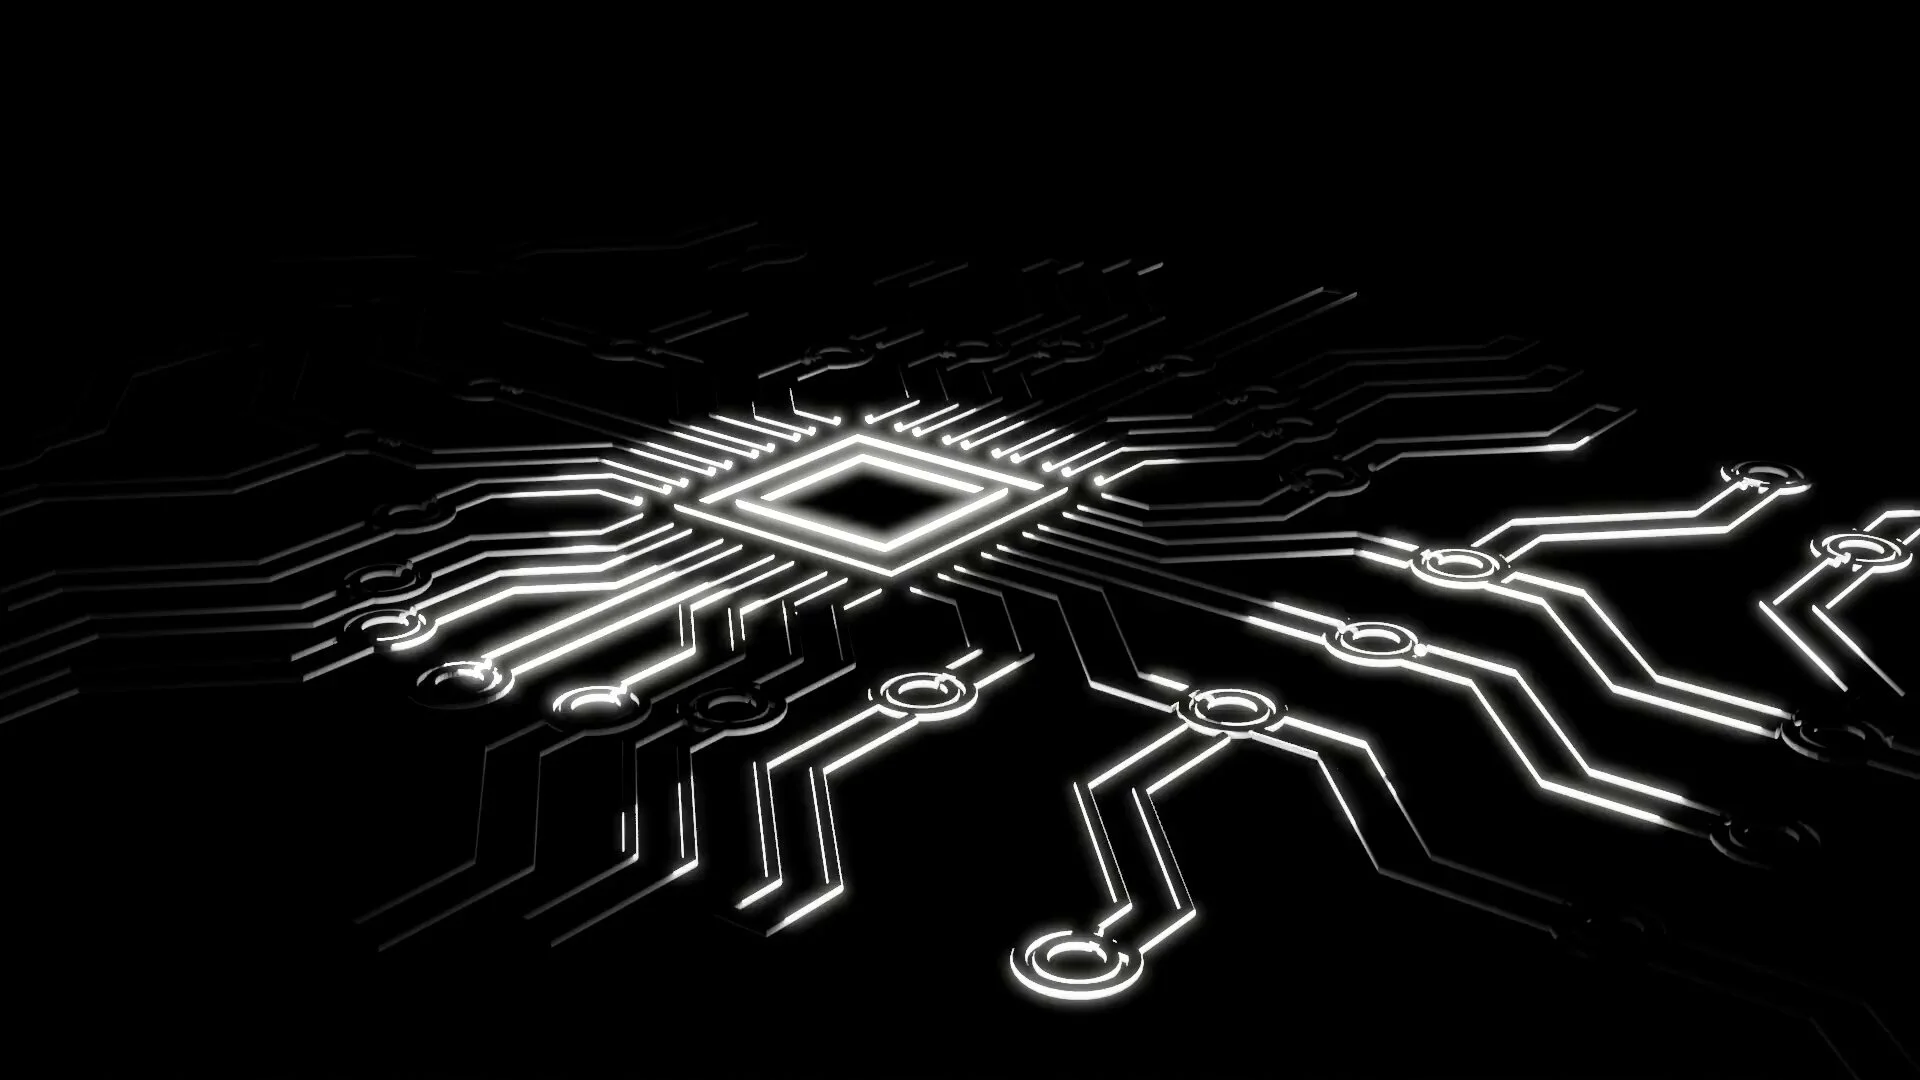
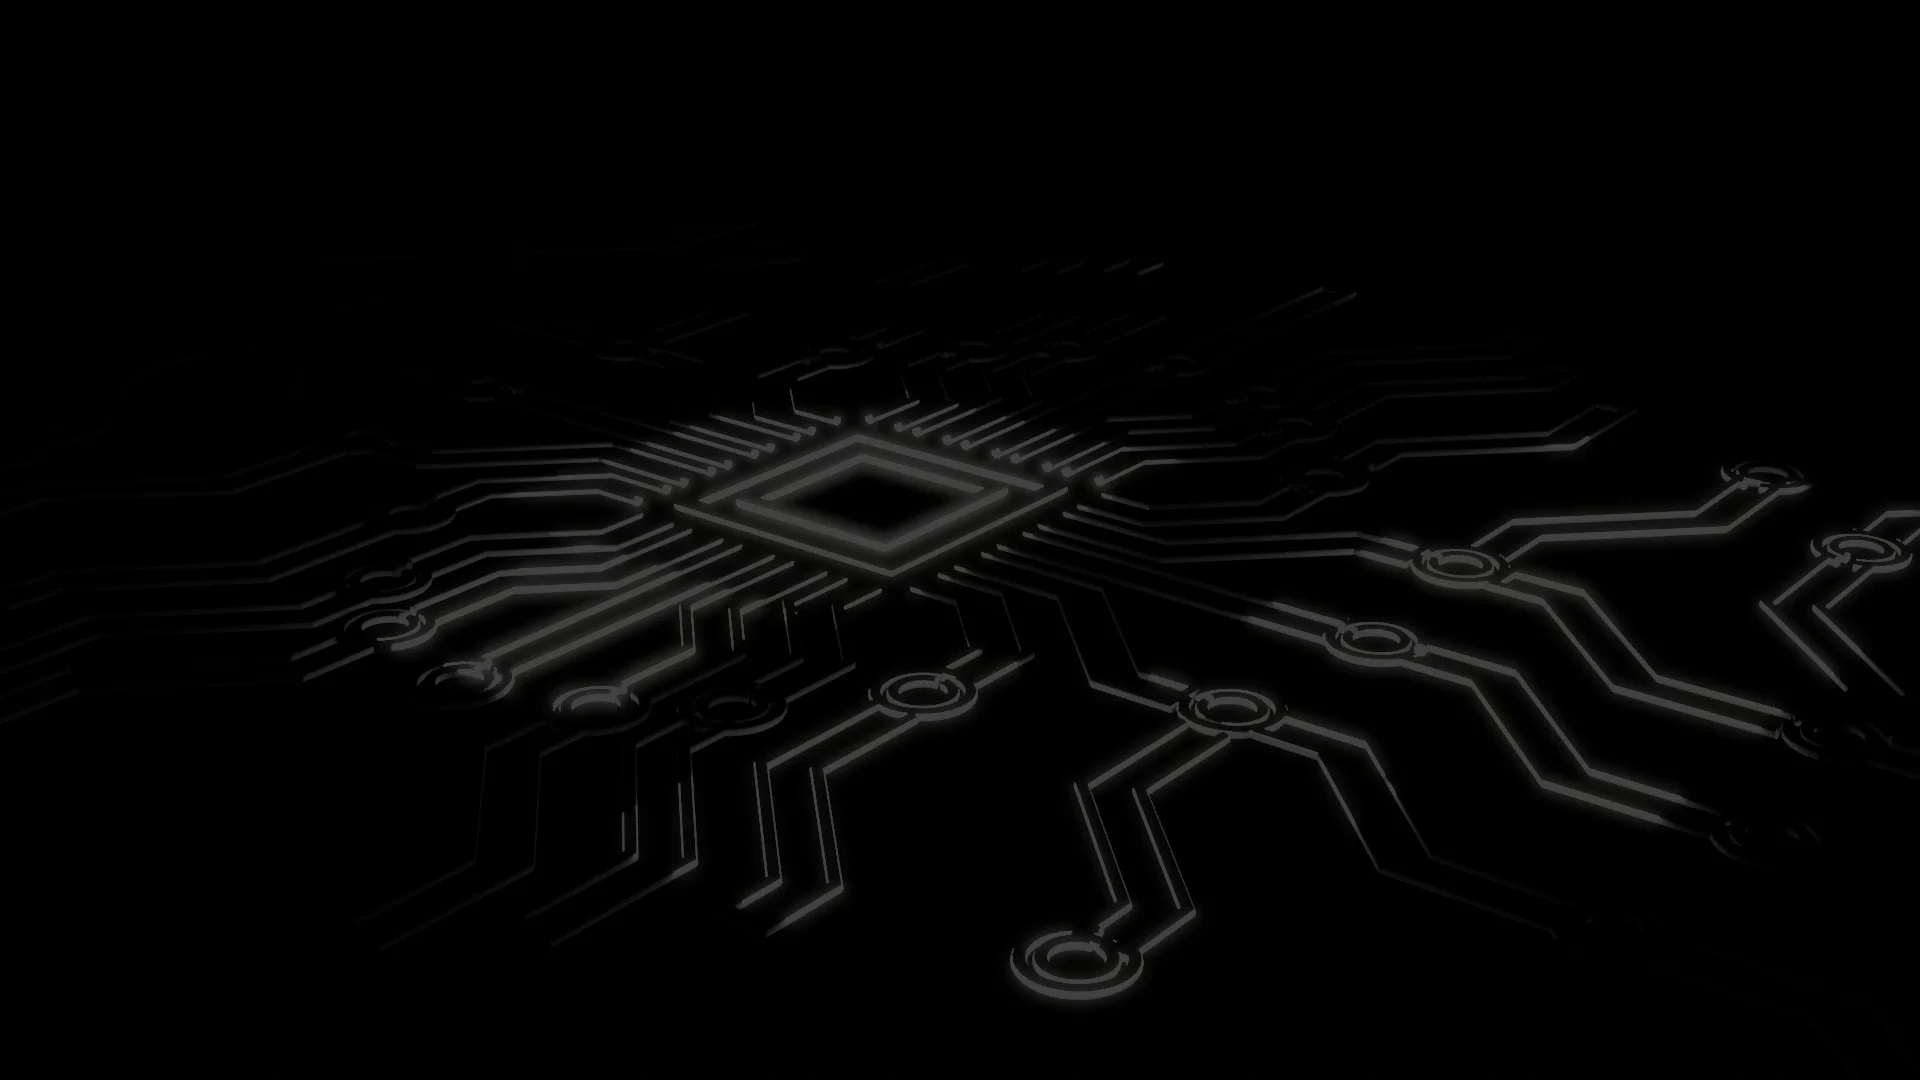
added hero content and box bleding as shadow

diff --git a/tailwind.config.js b/tailwind.config.js
@@ -118,7 +118,50 @@ module.exports = {
       50: 50,
       75: 75,
       100: 100,
+      minus1: -1,
+      minus2: -2,
+      minus3: -3,
+      minus4: -4,
+      minus5: -5,
+      minus6: -6,
+      minus7: -7,
+      minus8: -8,
+      minus9: -9,
+      minus10: -10,
+      minus20: -20,
+      minus25: -25,
+      minus30: -30,
+      minus40: -40,
+      minus50: -50,
+      minus75: -75,
+      minus100: -100,
       auto: 'auto',
+    },
+    boxShadow: {
+      sm: '0 1px 2px 0 rgba(0, 0, 0, 0.05)',
+      DEFAULT:
+        '0 1px 3px 0 rgba(0, 0, 0, 0.1), 0 1px 2px 0 rgba(0, 0, 0, 0.06)',
+      md: '0 4px 6px -1px rgba(0, 0, 0, 0.1), 0 2px 4px -1px rgba(0, 0, 0, 0.06)',
+      lg: '0 10px 15px -3px rgba(0, 0, 0, 0.1), 0 4px 6px -2px rgba(0, 0, 0, 0.05)',
+      xl: '0 20px 25px -5px rgba(0, 0, 0, 0.1), 0 10px 10px -5px rgba(0, 0, 0, 0.04)',
+      'box-trueblack-sm': '0px 0px 37px 32px rgba(0,0,0,1)',
+      'box-trueblack-base': '0px 0px 50px 42px rgba(0,0,0,1)',
+      'box-trueblack-lg': '0px 0px 80px 75px rgba(0,0,0,1)',
+      'box-trueblack-xl': '0px 0px 110px 100px rgba(0,0,0,1)',
+      'box-background-sm': '0px 0px 37px 32px #060606',
+      'box-background-base': '0px 0px 50px 42px #060606',
+      'box-background-lg': '0px 0px 80px 75px #060606',
+      'box-background-xl': '0px 0px 110px 100px #060606',
+      'box-surface-sm': '0px 0px 37px 32px #121212',
+      'box-surface-base': '0px 0px 50px 42px #121212',
+      'box-surface-lg': '0px 0px 80px 75px #121212',
+      'box-surface-xl': '0px 0px 110px 100px #121212',
+      'box-accent-sm': '0px 0px 37px 32px #07BB82',
+      'box-accent-base': '0px 0px 50px 42px #07BB82',
+      'box-accent-lg': '0px 0px 80px 75px #07BB82',
+      'box-accent-xl': '0px 0px 110px 100px #07BB82',
+      inner: 'inset 0 2px 4px 0 rgba(0, 0, 0, 0.06)',
+      none: 'none',
     },
   },
   variants: {

diff --git a/components/elements/Hero.tsx b/components/elements/Hero.tsx
@@ -1,19 +1,32 @@
 import React from 'react';
 import Image from 'next/image';
 import hero from '/public/images/hero.webp';
+import Button from '../elements/Button';
 
 const Hero = () => {
   return (
-    <div id='home'>
+    <div>
       <div className='absolute inset-0 w-full h-full overflow-hidden'>
         <Image
           src={hero}
           layout='fill'
           objectFit='cover'
-          className=' opacity-20'
+          className='z-minus20'
         />
       </div>
-      <div>hello</div>
+      <div className='grid grid-flow-col gap-2 grid-rows-2 md:grid-rows-1 md:gap-10 items-center bg-background shadow-box-background-lg text-on-background'>
+        <div>
+          <h1 className='text-center text-xl md:text-2xl'>
+            Connect your Account
+          </h1>
+          <p>Connect your Account to your Spotify account</p>
+        </div>
+        <div>
+          <Button link='/connect-spotify' classNames='z-3'>
+            Connect Spotify
+          </Button>
+        </div>
+      </div>
     </div>
   );
 };

diff --git a/pages/test.tsx b/pages/test.tsx
@@ -1,9 +1,29 @@
 import React from 'react';
+import Button from '../components/elements/Button';
 
 const Test = () => {
   return (
-    <div>
-      <a>lul</a>
+    <div className='flex flex-col items-center justify-between min-h-screen'>
+      <div></div>
+      <div className=' bg-surface text-on-surface px-4 py-2 opacity-50 shadow-box-sm'>
+        sm test
+      </div>
+      <div></div>
+      <div className=' bg-surface text-on-surface px-4 py-2 opacity-50 shadow-box-base'>
+        base test
+      </div>
+      <div></div>
+      <div></div>
+      <div className=' bg-surface text-on-surface px-4 py-2 opacity-50 shadow-box-lg'>
+        lg test
+      </div>
+      <div></div>
+      <div></div>
+      <div></div>
+      <div className=' bg-surface text-on-surface px-4 py-2 opacity-50 shadow-box-xl'>
+        xl test
+      </div>
+      <div></div>
     </div>
   );
 };

diff --git a/components/elements/Button.tsx b/components/elements/Button.tsx
@@ -1,0 +1,22 @@
+import React, { ReactNode } from 'react';
+import Link from 'next/link';
+
+type props = {
+  link: string;
+  children: ReactNode;
+  classNames?: string;
+};
+
+const btnLink = ({ link = '/test', children = 'test', classNames }: props) => {
+  return (
+    <Link href={link}>
+      <a
+        className={`bg-accent text-on-accent rounded-md py-2 px-4 font-bold ${classNames}`}
+      >
+        {children}
+      </a>
+    </Link>
+  );
+};
+
+export default btnLink;

diff --git a/components/Layout/index.tsx b/components/Layout/index.tsx
@@ -9,7 +9,7 @@ type Props = {
 };
 
 const Layout = ({ children, title = 'This is the default title' }: Props) => (
-  <div className='bg-background text-on-background flex flex-col items-center justify-center min-h-screen'>
+  <div className=' text-on-background flex flex-col items-center justify-center min-h-screen'>
     <Head title={title} />
     <Navbar />
     <main className='flex flex-col items-center justify-center w-full flex-1 px-5 text-center'>

diff --git a/pages/index.tsx b/pages/index.tsx
@@ -9,9 +9,11 @@ import { auth } from '../config/firebase';
 const Home: NextPage = () => {
   const [user, loading, error] = useAuthState(auth);
   return (
-    <Layout>
-      <Hero />
-    </Layout>
+    <div className=''>
+      <Layout>
+        <Hero />
+      </Layout>
+    </div>
   );
 };
 

diff --git a/README.md b/README.md
@@ -53,3 +53,7 @@ A `type-check` script is also added to `package.json`, which runs TypeScript's `
 The colors are based on [Material.io's guide](https://material.io/design/color/dark-theme.html#properties)
 
 Color can be accessed through the [tailwind](https://tailwindcss.com/docs) theme in the `tailwind.config.js` file
+
+### Icons
+
+icons are imported from [heroicons](https://heroicons.com/)
